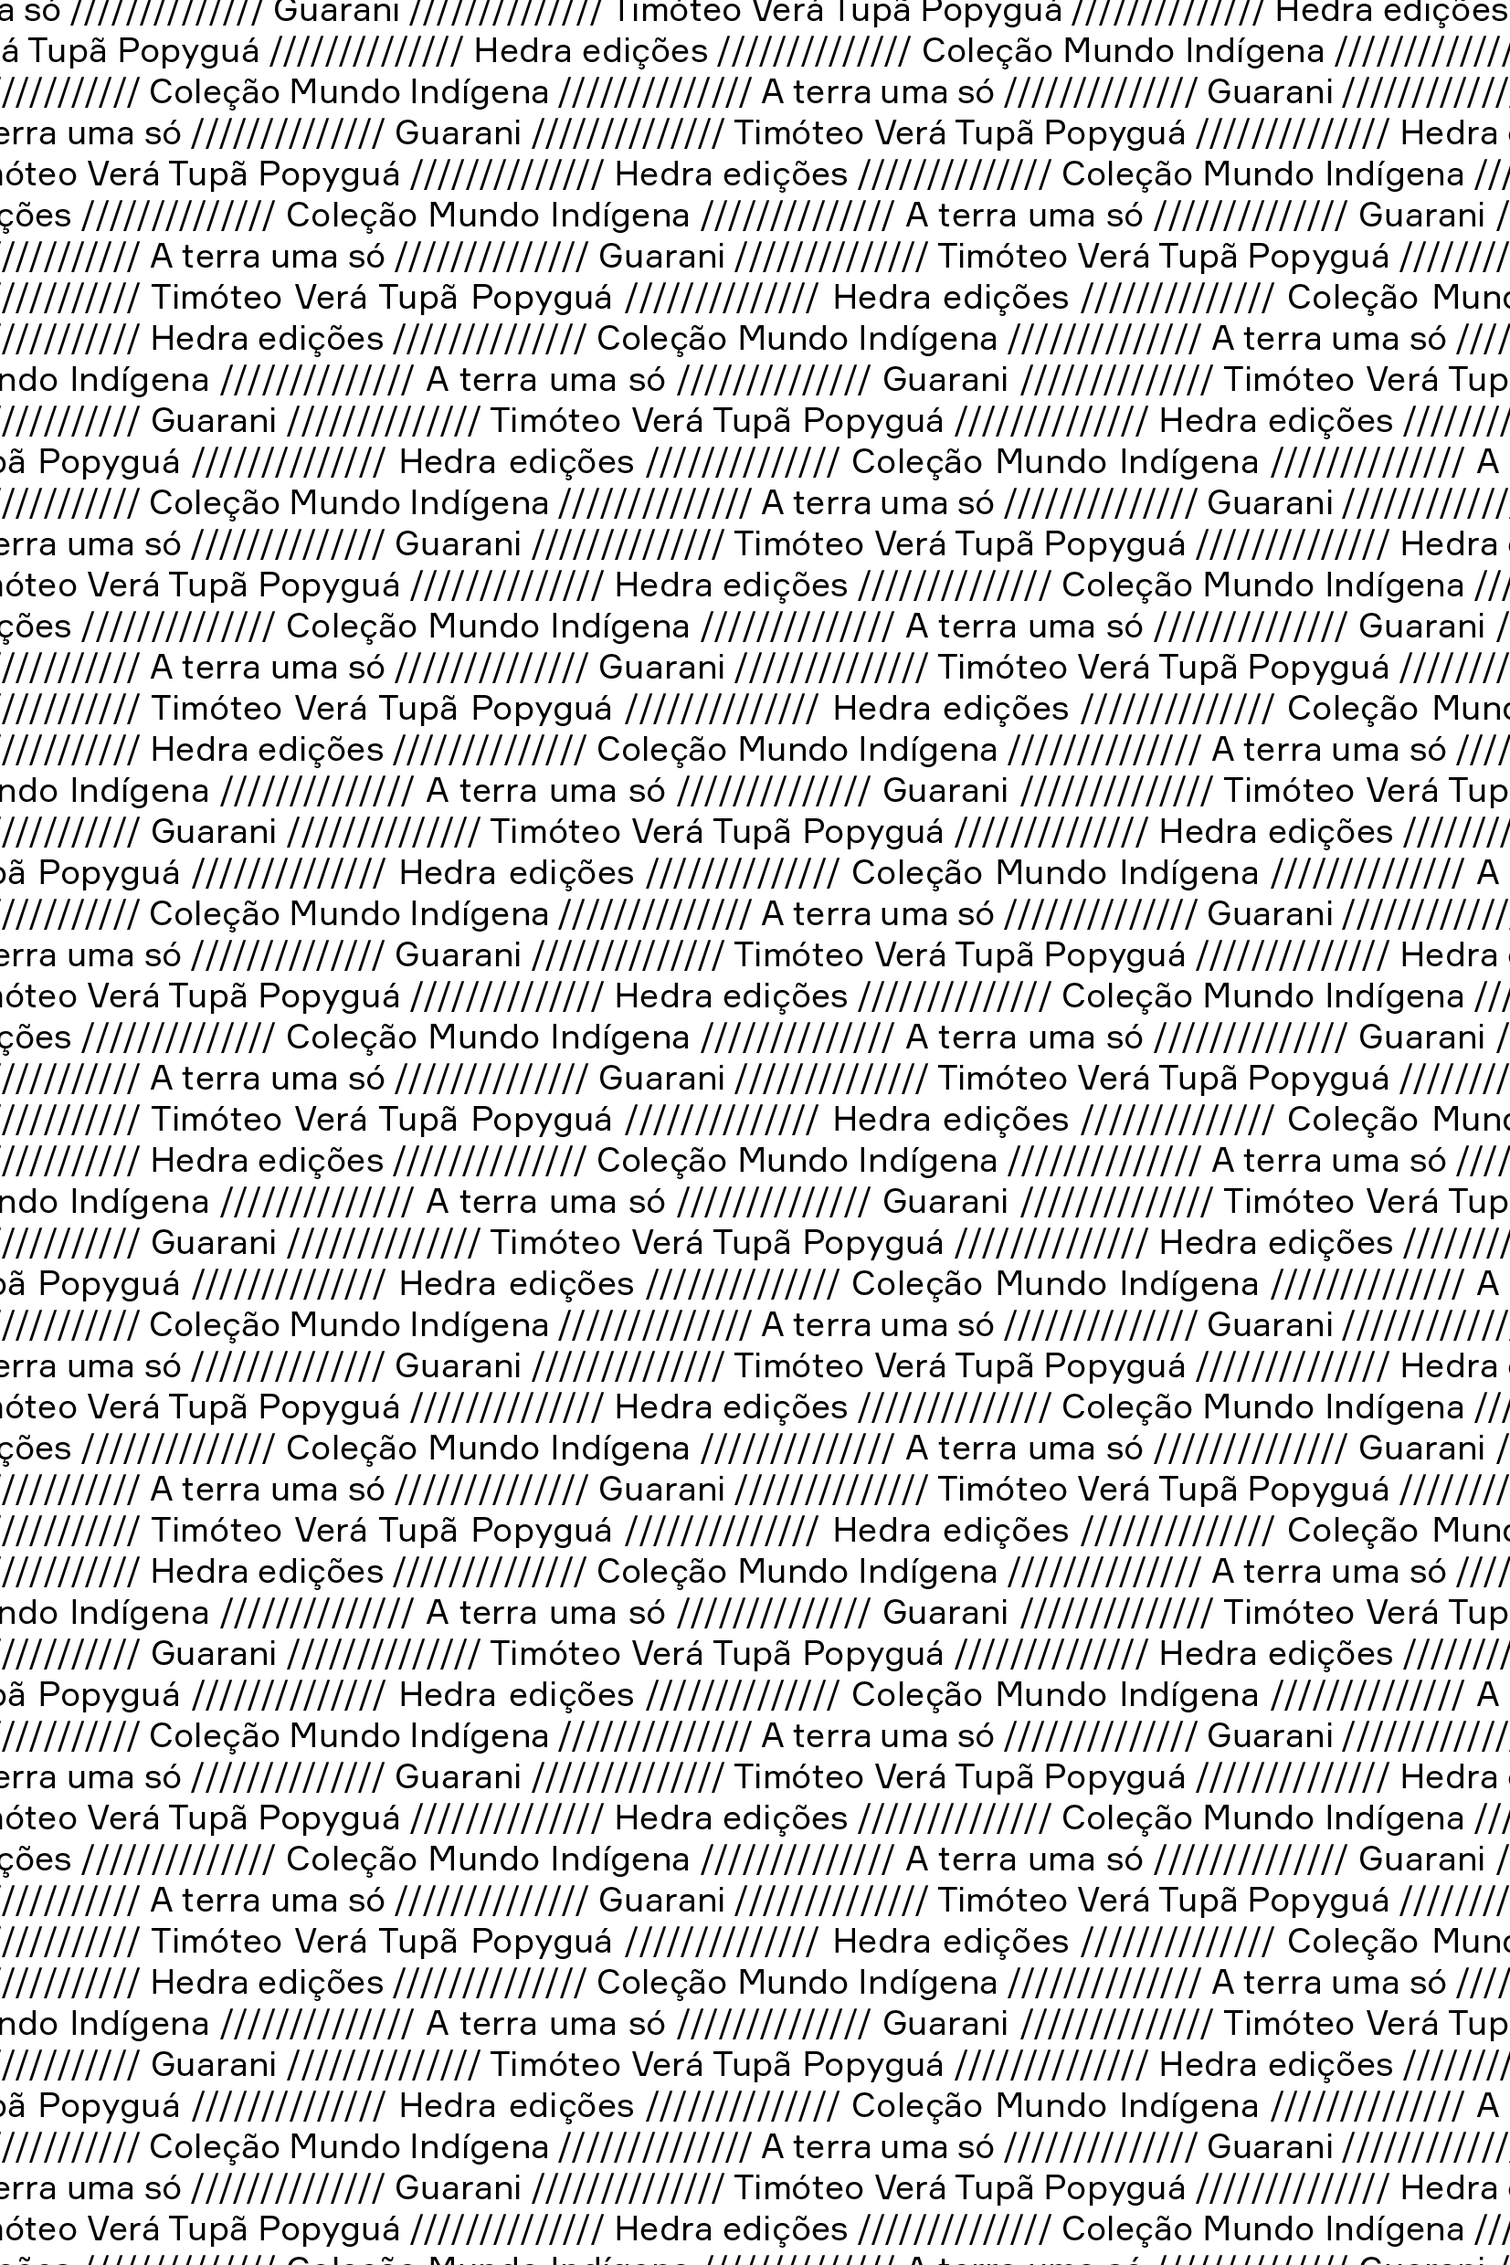
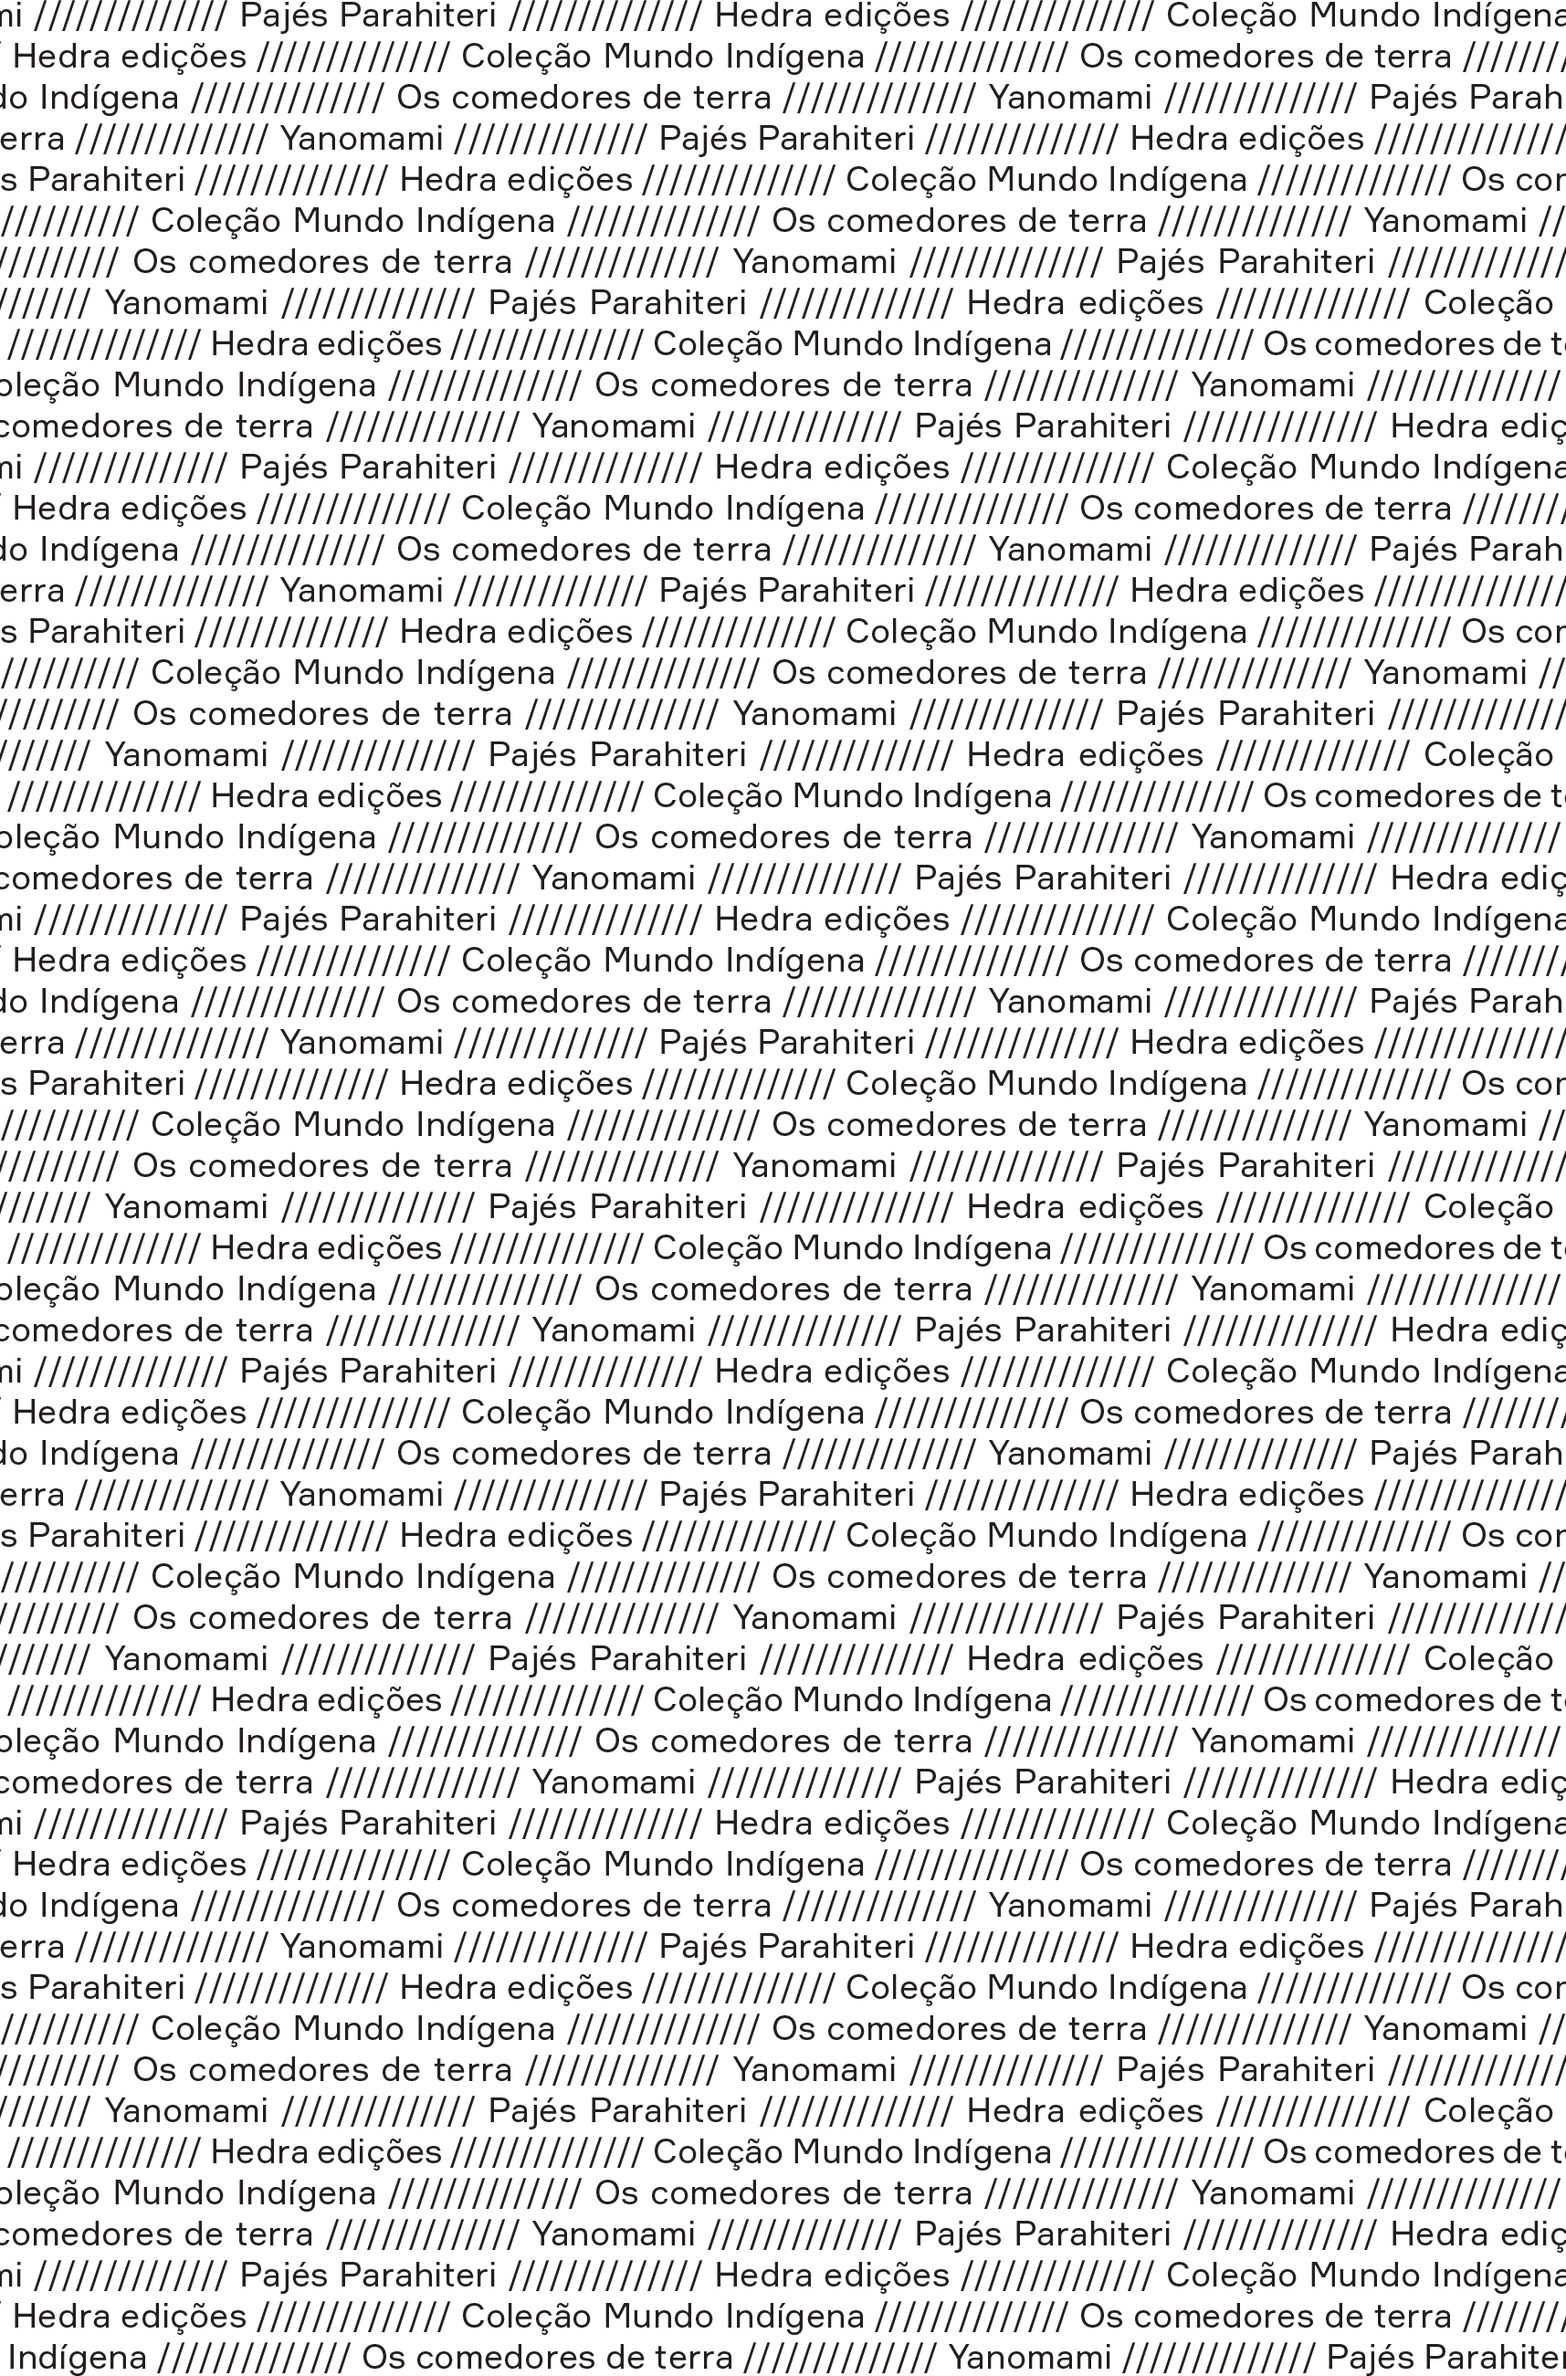
posicionando front

diff --git a/1-fronte.tex b/1-fronte.tex
@@ -1,8 +1,8 @@
 \thispagestyle{empty}
 
-\begin{textblock*}{2.625in}(0pt,0pt)%
-\vspace*{-2cm}
-\hspace*{-2.65cm}\includegraphics[width=138mm]{./ABERTURA.png}  
+\begin{textblock*}{-2in}(0pt,0pt)%
+\vspace*{-1.8cm}
+\hspace*{-3cm}\includegraphics[width=142mm]{./ABERTURA.png}  
 \end{textblock*}
 
 \pagebreak
